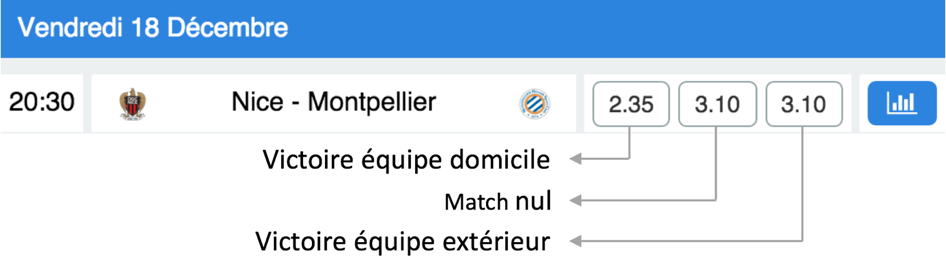
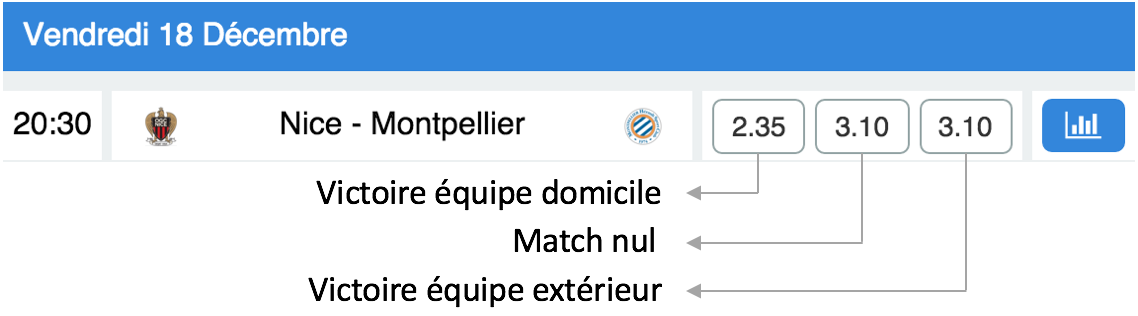
Finalisation des regles

diff --git a/scripts/react/loggedInApp/rules.js b/scripts/react/loggedInApp/rules.js
@@ -6,7 +6,7 @@ var Rules = React.createClass({
     return d.div({
       style: {
         fontSize: '20px',
-        margin: '0 0 10px 0',
+        margin: '30px 0 10px 0',
         fontWeight: 'bold',
         color: COLOR.blue,
       }
@@ -20,14 +20,14 @@ var Rules = React.createClass({
       }
     }, text)
   },
-  renderImage: function(url) {
+  renderImage: function(url, height, width) {
     return d.div({
       style: {
         backgroundImage: url,
-        height: '129px',
-        width: '473px',
+        height: height,
+        width: width,
         backgroundSize: '100% 100%',
-        margin: '10px auto'
+        margin: '20px auto'
       }
     }, null)
   },
@@ -58,7 +58,60 @@ var Rules = React.createClass({
         'Pariez sur le résultat du match (victoire équipe domicile ou match nul ou victoire équipe extérieure).',       
         'Pariez sur le score du match.'
       ]),
-      this.renderImage('url(./images/rules1.png)')
+      this.renderTitle('2. Effectuer un pari'),
+      this.renderText('Dans l’onglet pariez, vous pouvez sélectionner le résultat du match que vous pronostiquez. Le chiffre indique la cote du résultat associé.'),
+      this.renderImage('url(./images/rules1.png)', '158px', '569px'),
+      this.renderText('Sélectionner ensuite le score du match. Le chiffre à droite du score indique la cote associée au score.'),
+      this.renderImage('url(./images/rules2.png)', '137.5px', '477px'),
+      this.renderText('Pour voir tous les scores disponibles cliquer sur la flèche à droite.'),
+      this.renderImage('url(./images/rules3.png)', '222px', '477px'),
+      this.renderText(d.span(
+        null,
+        d.span({}, 'Une fois votre pari terminé, cliquer sur valider. '),
+        d.span({
+          style: {
+            fontWeight: 'bold'
+          }
+        }, 'ATTENTION : une fois le pari validé il n’est pas possible de le modifier.')
+      )),
+      this.renderImage('url(./images/rules4.png)', '224px', '477px'),
+      this.renderText('Lorsqu’un pari est validé, il est affiché à droite de l’intitulé du match. Le pari reste affiché jusqu’au coup de sifflet final du match associé.'),
+      this.renderImage('url(./images/rules5.png)', '167.5px', '477px'),
+      this.renderTitle('3. Résultat'),
+      this.renderText('Dans l’onglet résultat vous pouvez consulter l’issue des matchs de ligue 1 ainsi que les résultats de vos paris. Lorsqu’un pari est correct (résultat ou résultat et score) vous gagnez un nombre de points égale à la/les cote(s) associées.'),
+      this.renderImage('url(./images/rules6.png)', '272.5px', '544px'),
+      this.renderText(d.span({
+        style: {
+          fontStyle: 'italic'
+        }
+      }, 'Dans l’exemple ci-dessus, le parieur a trouvé le bon résultat (victoire équipe domicile), il gagne 2.35 points (valeur de la cote). Le score pronostiqué (2-1) n’est pas correct (résultat réel 1-0), le parieur ne gagne pas de point supplémentaire.')),
+      this.renderText(d.br({})),
+      this.renderText('Il est également possible de consulter les résultats des paris d’autre joueur.'),
+      this.renderImage('url(./images/rules7.png)', '92.5px', '544px'),
+      this.renderTitle('4. Classement'),
+      this.renderText('Dans l’onglet classement, vous pouvez afficher votre position par rapport aux autres joueurs. Vous pouvez sélectionner différents classements :'),
+      this.renderPuce([
+        'Général : Prend en compte tous les paris de tous les joueurs.',
+        'Personnel : Prend en compte tous les paris effectués après votre premier pari.',
+        'Saison : Prend en compte tous les paris de la saison sélectionnée.',
+        'Demi-saison : Prend en compte tous les paris de la demi-saison sélectionnée. Une demi-saison est défini par la trêve hivernale (journée 19).',
+        'Mois : Prend en compte tous les paris du mois sélectionné.',
+        'Prend en compte tous les paris de la journée sélectionnée.'
+      ]),
+      this.renderImage('url(./images/rules8.png)', '226px', '545px'),
+      this.renderText('Légende :'),
+      this.renderPuce([
+        'N° : Position dans le classement',
+        'Pseudo : Le pseudo du joueur',
+        'MJ : nombre de match où le joueur a effectué un pari',
+        'RG : nombre de résultat correct trouvé',
+        'PTSR : nombre de point gagné avec un résultat correct',
+        'SG : nombre de score trouvé',
+        'PTSS : nombre de point gagné avec un score correct',
+        'PTS : nombre de point gagné total'
+      ]),
+      this.renderText(d.br({})),
+      this.renderText('Le classement est défini par rapport au nombre de point total gagnés. En cas d’égalité, le joueur ayant effectué le moins pari passe devant.')
     )
   }
 })
